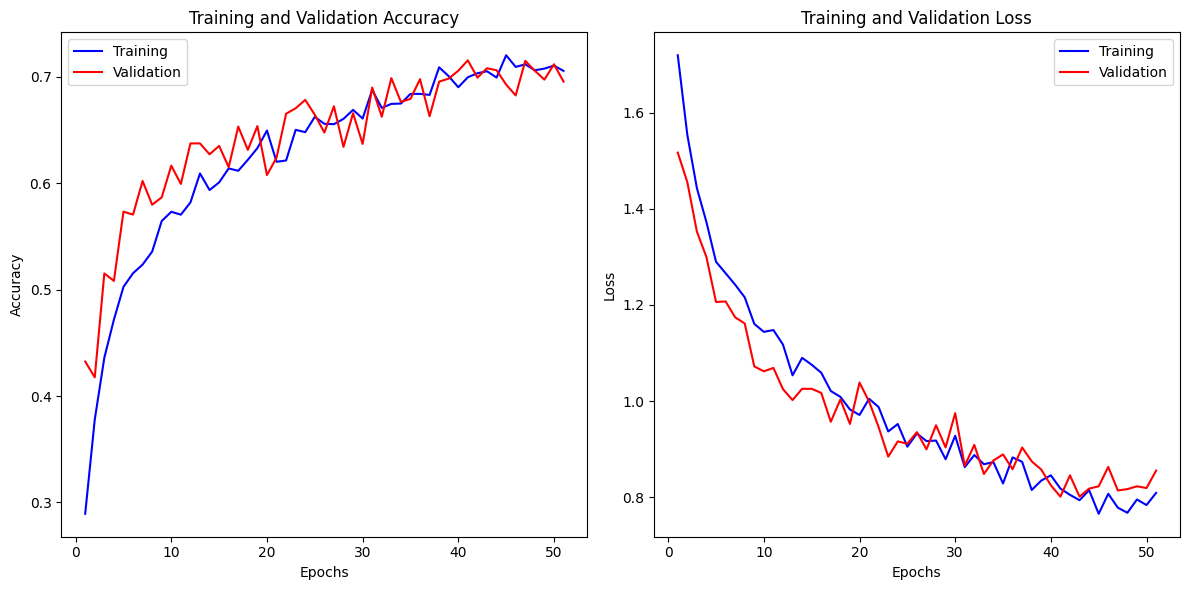
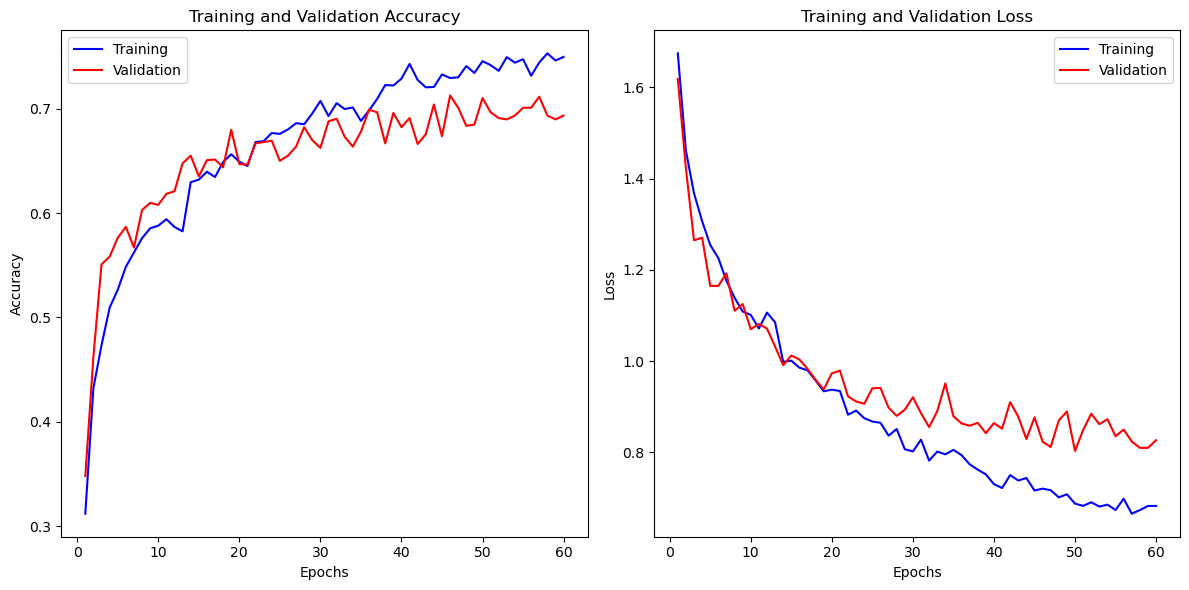
Add files via upload

diff --git a/README.md b/README.md
@@ -42,6 +42,14 @@ The dataset used in this project was sourced from Kaggle, available via the prov
 
 The diversity in dataset qualities has the potential to impact various aspects, including the model's complexity, generalization capability, preprocessing requirements, and training duration.
 
+#### Image complexity
+
+The dataset holds complexity, as we may encounter cases that can be confusing and contradictory. Here are 2 examples of images from the training set:
+In the first one, we observe an image belonging to the cat class, which also features a butterfly. This situation may lead to class overlap. In the second image, it's labeled as an elephant; however, there isn't one present in the image.
+
+![Alt text](assets/1824.jpeg)
+![Alt text](assets/OIP-eOuoCsdfcco8OgTLQgyFtwHaE7.jpeg)
+
 ### 🎯 Training
 
 ### Efficiency Table Without Pretrained models
@@ -52,9 +60,12 @@ Learning rate = 1e-3
 
 Number Of Layers|Number Of Neurons Per Layer|Activation Function|DropOut|Accuracy|Loss|
 |:---|:---|:---|:---|:---|:---|
+| 4 | 16, 32, 64, 6 | relu, softmax | 0.4, 0.3, 0.5 | 0.5123 | 1.2321 |
+| 2 | 32, 6 | relu, softmax | 0.5 | 0.4314 | 1.3908 |
+| 5 | 32, 64, 64, 32, 6 | relu, softmax | 0.3, 0.4, 0.3, 0.4 | 0.6132 | 1.1009 |
 |3| 32, 128 6 | relu, softmax | 0.25, 0.5 | 0.6029 | 1.1043 |
 |4| 32, 64, 128, 6 | relu, softmax | 0.25, 0.25, 0.5 | 0.7139 | 0.7603 |
-|4| 32, 32, 64, 6 | relu, softmax | 0.2, 0.2, 0.5 | 0.7078 | 0.8015 |
+|4| 32, 32, 64, 6 | relu, softmax | 0.2, 0.2, 0.5 | 0.7100 | 0.8033 |
 
 
 ### Efficiency Table Using VGG16
@@ -70,6 +81,29 @@ Number Of Layers|Number Of Neurons Per Layer|Activation Function|DropOut|Learnin
 
 ### Comparation
 
-![Animal Training Comparation](assets/imgAnimalComparation.png)
+#### CNN without VGG16
+
+![Animal Training Comparation](assets/imgAnimalsCnn.png)
+
+#### Using VGG16
+
+![Animal Training Comparation](assets/imgAnimalsVgg16.png)
 
 In the training of the network without VGG16, we can observe that it starts at around 0.45% and finishes at approximately 70%. On the other hand, its final loss is about 0.79. When compared to VGG16, it is evident that the latter outperforms it both in accuracy (reaching approximately 85%) and in loss (approximately 0.4)
+
+
+### Test comapartive
+
+#### Test without VGG16
+
+45/45 [==============================] - 5s 115ms/step - loss: 0.9265 - accuracy: 0.6638  
+Test Loss: 0.926513135433197  
+Test Accuracy: 0.6638417840003967
+
+#### Test VGG16
+
+45/45 [==============================] - 8s 172ms/step - loss: 0.3620 - accuracy: 0.8686  
+Test Loss: 0.3619837760925293  
+Test Accuracy: 0.8686440587043762
+
+Comparing these test results, we observe a substantial difference in performance between the models. The test with VGG16 achieved significantly lower loss and higher accuracy compared to the test without VGG16. The model utilizing VGG16 architecture demonstrated superior performance, showcasing lower loss and higher accuracy on the test dataset.
